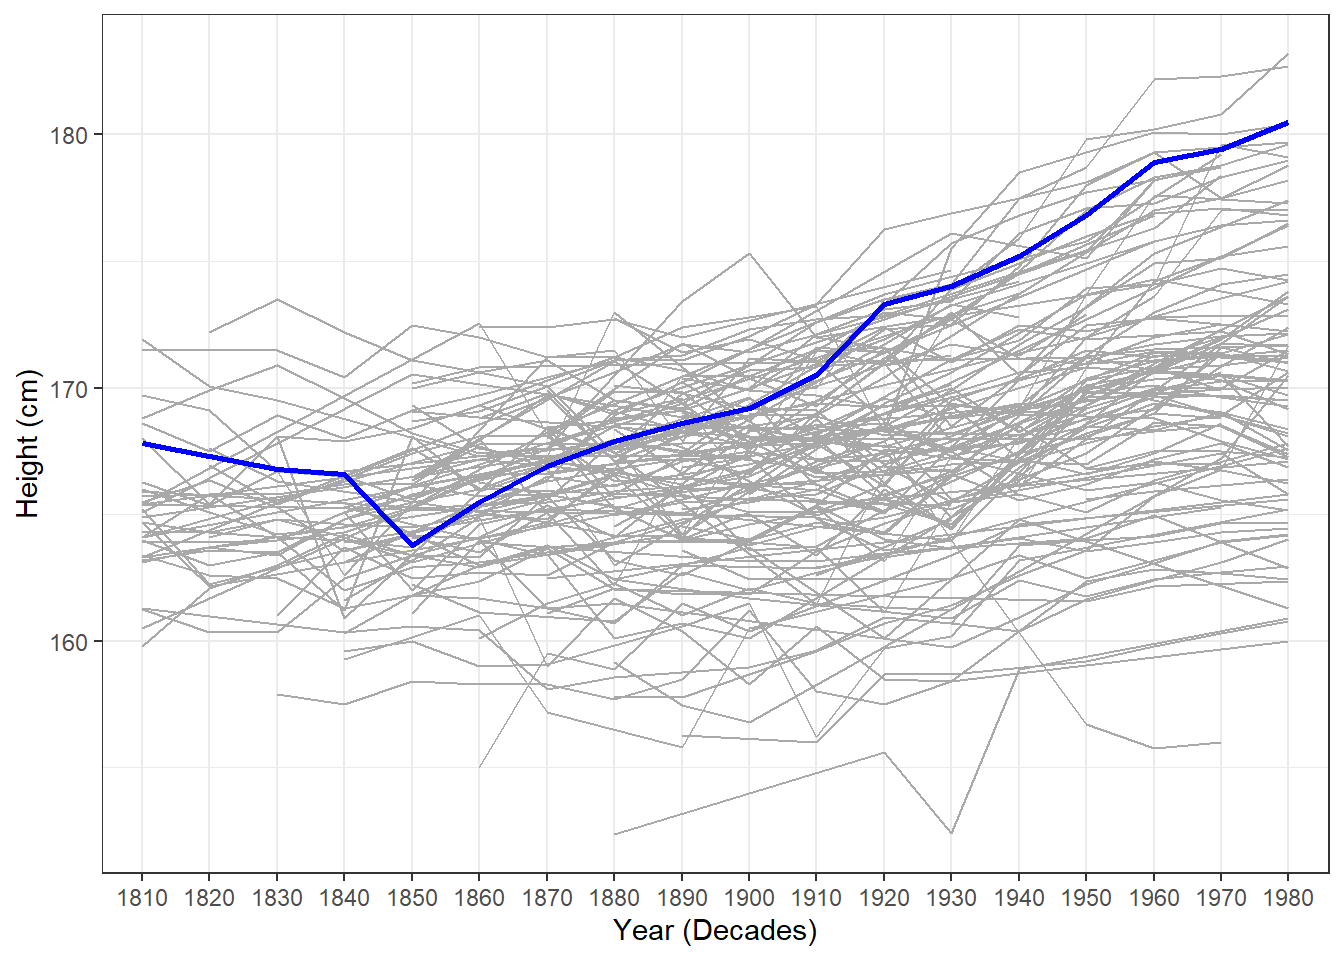
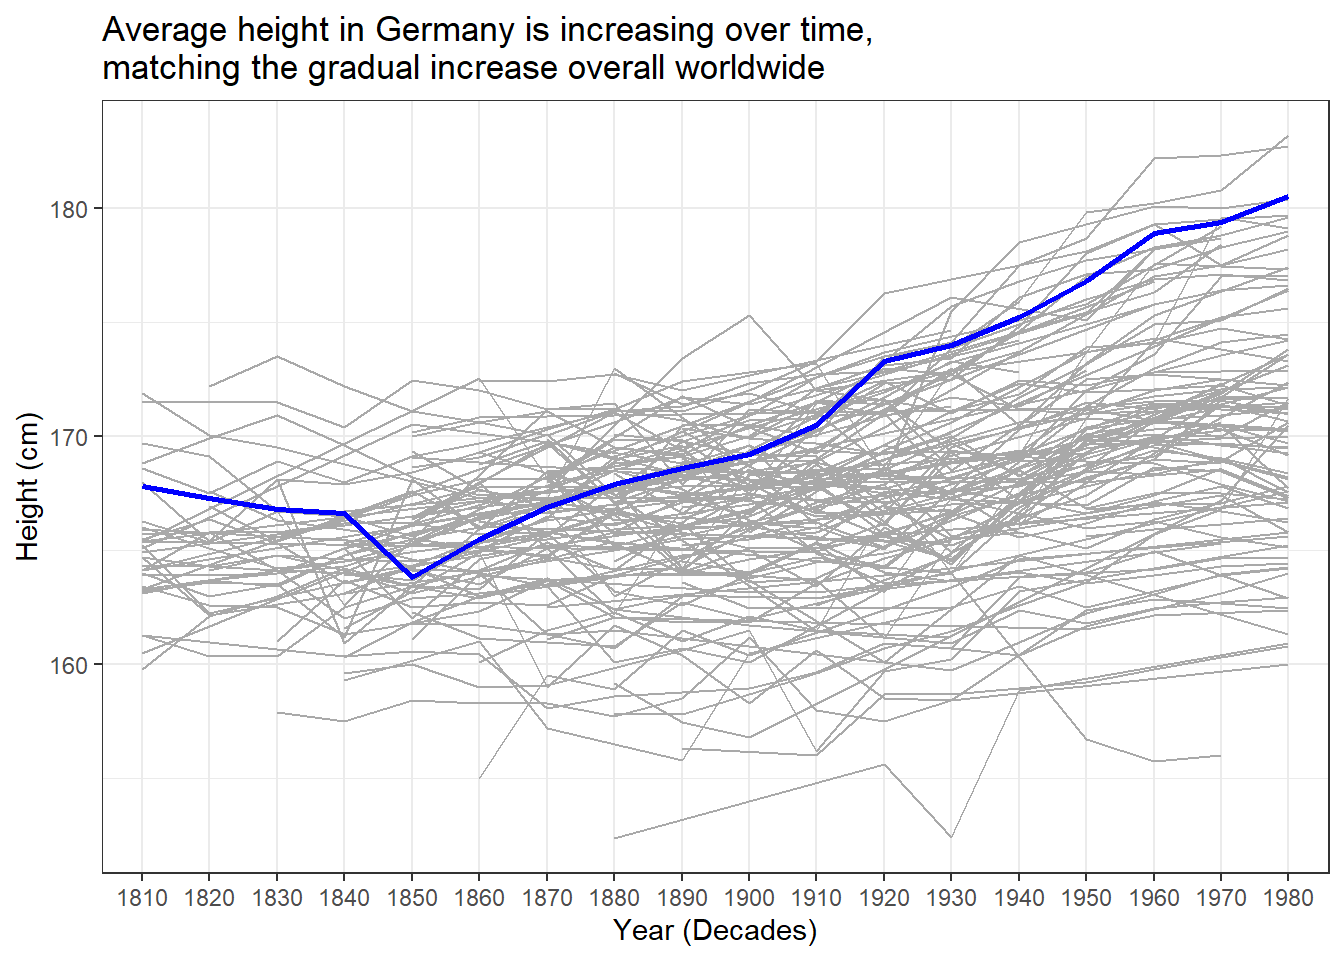
edited second function per issue #7

diff --git a/week_04/Height.html b/week_04/Height.html
@@ -152,8 +152,9 @@ pre > code.sourceCode > span > a:first-child::before { text-decoration: underlin
 <div class="sourceCode cell-code" id="cb5"><pre class="sourceCode numberSource r number-lines code-with-copy"><code class="sourceCode r"><span id="cb5-1"><a href="#cb5-1"></a><span class="fu">ggplot</span>(heights2, <span class="fu">aes</span>(<span class="at">x =</span> year_decade, <span class="at">y =</span> height_cm, <span class="at">group =</span> country)) <span class="sc">+</span></span>
 <span id="cb5-2"><a href="#cb5-2"></a>  <span class="fu">geom_line</span>(<span class="at">color =</span> <span class="st">"darkgray"</span>, <span class="at">pch =</span> <span class="dv">19</span>) <span class="sc">+</span></span>
 <span id="cb5-3"><a href="#cb5-3"></a>  <span class="fu">geom_line</span>(<span class="at">data =</span> <span class="fu">subset</span>(heights2, country <span class="sc">==</span> <span class="st">"Germany"</span>), <span class="at">color =</span> <span class="st">"blue"</span>, <span class="at">pch =</span> <span class="dv">19</span>, <span class="at">size =</span> <span class="dv">1</span>) <span class="sc">+</span></span>
-<span id="cb5-4"><a href="#cb5-4"></a>  <span class="fu">labs</span>(<span class="at">x =</span> <span class="st">"Year (Decades)"</span>, <span class="at">y =</span> <span class="st">"Height (cm)"</span>) <span class="sc">+</span></span>
-<span id="cb5-5"><a href="#cb5-5"></a>  <span class="fu">theme_bw</span>()</span></code><button title="Copy to Clipboard" class="code-copy-button"><i class="bi"></i></button></pre></div>
+<span id="cb5-4"><a href="#cb5-4"></a>  <span class="fu">labs</span>(<span class="at">title =</span> <span class="st">"Average height in Germany is increasing over time, </span><span class="sc">\n</span><span class="st">matching the gradual increase overall worldwide"</span>,</span>
+<span id="cb5-5"><a href="#cb5-5"></a>       <span class="at">x =</span> <span class="st">"Year (Decades)"</span>, <span class="at">y =</span> <span class="st">"Height (cm)"</span>) <span class="sc">+</span></span>
+<span id="cb5-6"><a href="#cb5-6"></a>  <span class="fu">theme_bw</span>()</span></code><button title="Copy to Clipboard" class="code-copy-button"><i class="bi"></i></button></pre></div>
 </details>
 <div class="cell-output cell-output-stderr">
 <pre><code>Warning in geom_line(color = "darkgray", pch = 19): Ignoring unknown

diff --git a/week_10/Chipotle.html b/week_10/Chipotle.html
@@ -140,7 +140,7 @@ pre > code.sourceCode > span > a:first-child::before { text-decoration: underlin
 <span id="cb4-17"><a href="#cb4-17"></a></span>
 <span id="cb4-18"><a href="#cb4-18"></a>chipotle_day <span class="ot">&lt;-</span> <span class="cf">function</span>(x) {</span>
 <span id="cb4-19"><a href="#cb4-19"></a>  <span class="fu">chipotle</span>(x) <span class="sc">%&gt;%</span> <span class="fu">slice_max</span>(customers, <span class="at">n =</span> <span class="dv">1</span>) <span class="sc">%&gt;%</span> </span>
-<span id="cb4-20"><a href="#cb4-20"></a>  <span class="fu">pull</span>(weekday) <span class="sc">%&gt;%</span> <span class="fu">str_c</span>()</span>
+<span id="cb4-20"><a href="#cb4-20"></a>  <span class="fu">pull</span>(weekday) <span class="sc">%&gt;%</span> <span class="fu">str_c</span>(<span class="at">collapse =</span> <span class="st">", "</span>)</span>
 <span id="cb4-21"><a href="#cb4-21"></a>}</span></code><button title="Copy to Clipboard" class="code-copy-button"><i class="bi"></i></button></pre></div>
 </details>
 </div>
@@ -224,7 +224,7 @@ pre > code.sourceCode > span > a:first-child::before { text-decoration: underlin
 <div class="sourceCode cell-code" id="cb15"><pre class="sourceCode numberSource r number-lines code-with-copy"><code class="sourceCode r"><span id="cb15-1"><a href="#cb15-1"></a><span class="fu">chipotle_day</span>(<span class="st">'{“Monday”:0,“Tuesday”:0,“Wednesday”:1,“Thursday”:0,“Friday”:0,“Saturday”:1,“Sunday”:0}'</span>)</span></code><button title="Copy to Clipboard" class="code-copy-button"><i class="bi"></i></button></pre></div>
 </details>
 <div class="cell-output cell-output-stdout">
-<pre><code>[1] "Wednesday" "Saturday" </code></pre>
+<pre><code>[1] "Wednesday, Saturday"</code></pre>
 </div>
 </div>
 </section>

diff --git a/week_04/Height.html.md b/week_04/Height.html.md
@@ -69,7 +69,8 @@ heights2 <- Height %>%
 ggplot(heights2, aes(x = year_decade, y = height_cm, group = country)) +
   geom_line(color = "darkgray", pch = 19) +
   geom_line(data = subset(heights2, country == "Germany"), color = "blue", pch = 19, size = 1) +
-  labs(x = "Year (Decades)", y = "Height (cm)") +
+  labs(title = "Average height in Germany is increasing over time, \nmatching the gradual increase overall worldwide",
+       x = "Year (Decades)", y = "Height (cm)") +
   theme_bw()
 ```
 
@@ -109,5 +110,4 @@ Warning in geom_line(data = subset(heights2, country == "Germany"), color =
 :::
 
 
-The data displayed features the average heights for countries around the world over four decades. A claim has been made that humans are growing taller over time, which is supported by the data in this visual. Before 1840, there appears to be very little growth. Gradually after that point, height seems to climb, with many countries even surpassing 170cm tall. Highlighted in blue, the Federal Republic of Germany declined in height until 1850, when average height began to grow until reaching over 180 cm in 1980. From looking at this visual, I would support the claim that height is growing taller over the years, faster for some countries than others, but generally trending upward. I would also predict that average height continues to increase after 1980. 
-
+The data displayed features the average heights for countries around the world over four decades. A claim has been made that humans are growing taller over time, which is supported by the data in this visual. Before 1840, there appears to be very little growth. Gradually after that point, height seems to climb, with many countries even surpassing 170cm tall. Highlighted in blue, the Federal Republic of Germany declined in height until 1850, when average height began to grow until reaching over 180 cm in 1980. From looking at this visual, I would support the claim that height is growing taller over the years, faster for some countries than others, but generally trending upward. I would also predict that average height continues to increase after 1980.
